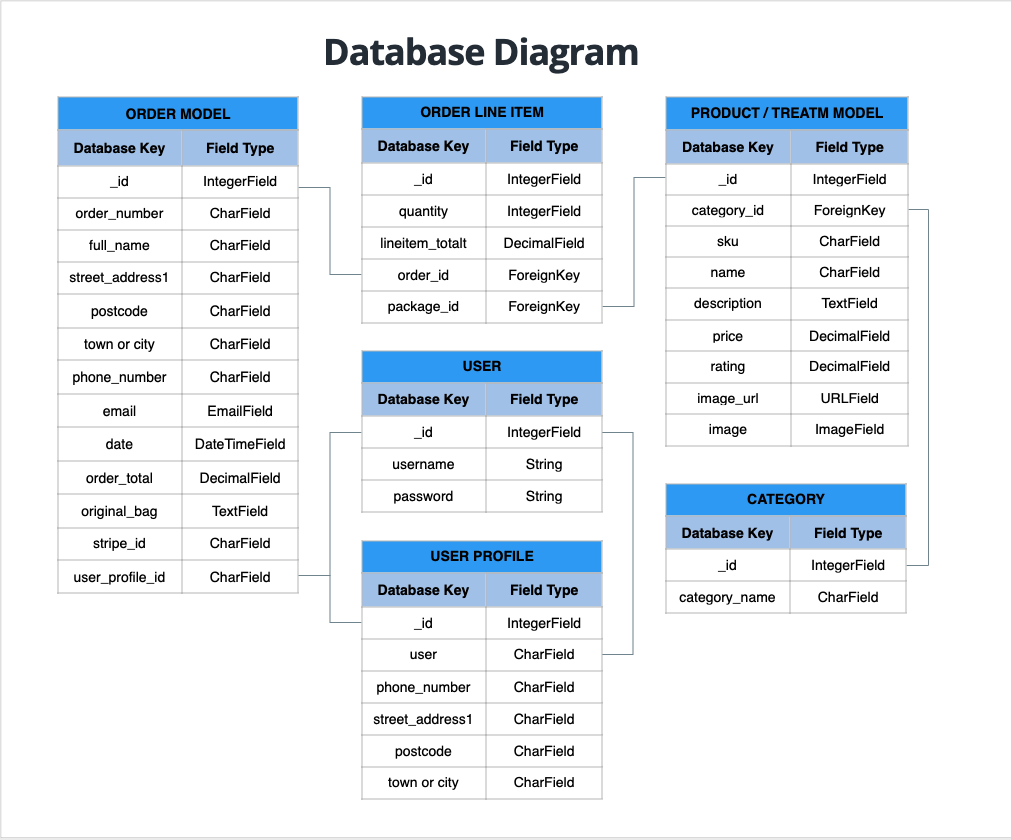
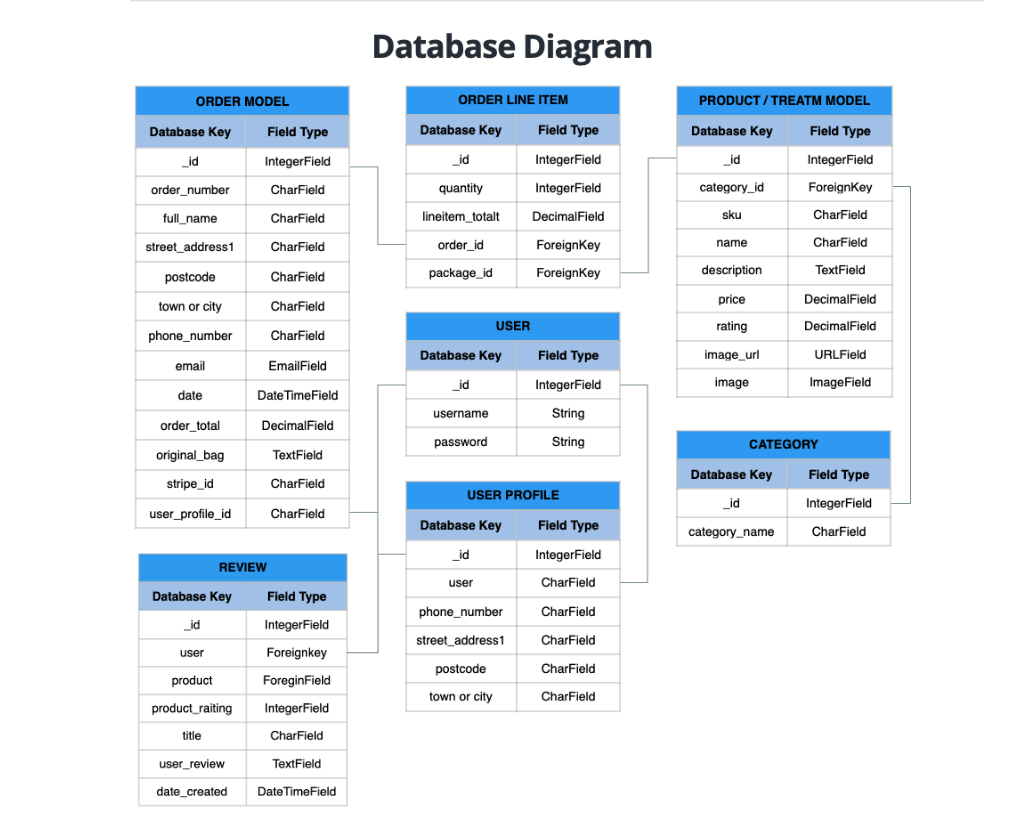
doc(core): Updated database schema with review model and cleand up readme

Changed region(s): [[0.0307, 0.031, 0.9199, 0.9595], [0.0, 0.9905, 1.0, 1.0]]

diff --git a/README.md b/README.md
@@ -40,6 +40,7 @@ View the live website: [Happy Feets](https://happy-feetss.herokuapp.com/)
 # UX
 
 ## Strategy
+---
 
 The purpose of this project is to build a simple website for a podiatrist where customers can buy treatments or products of choice. This website can be easily changed for different type of businesses. 
 
@@ -103,8 +104,8 @@ I have also done some research on highest searched words in podiatrist and feet 
 
 <br>
 
----
 ## Scope
+---
 
 Based on the requirements of achieving user's and owner's goals and stories, below is the list of required pages with the features and functions:
 
@@ -143,8 +144,8 @@ Based on the requirements of achieving user's and owner's goals and stories, bel
         - As the business owner, I would like to be able to provide easy shopping experience for my customers.
 <br>
 
----
 ## Structures of the website
+---
 
 Website contains:
 - Navigation bar is fixed and collapse to burger icon on mobile devices with essential links to navigate on the website. 
@@ -153,10 +154,11 @@ Website contains:
 - The shop page will contain information of what kind of products can be bought.
 - The about page will contain information about the siteowner.
 - The footer will contains social media links.
+
 <br>
 
----
 ## Skeleton
+---
 
 ### Wireframes
 
@@ -173,8 +175,28 @@ The database diagram shows a list of items in each object and relationships betw
 
 - [Database Schema](readme_data/database/database-schema.png)
 
+**Data Models**
+
+The following models have been used to populate the database and for the site to function as it should:
+
+- Order - a users successful purchase leads to an instance of the Order model being created, storing delivery and user data
+
+- OrderLineItem - a model holding the product information for a single product, binding the product model together with the order
+
+- Product/Treatment - the model for the product itself and its details
+
+- Category - the category in which the product is placed
+
+- User - the built in Django User model, facilitates the users basic information
+
+- UserProfile - the model storing the users product and order information
+
+- Review - a model for users to give the product a rating and a review
+
+<br>
 
 ## Surface
+---
 
 ### Frontend Design
 The [Bootstrap](https://getbootstrap.com/) framework was used to implement the frontend of the website to give a responsive design that provides a good UX across all devices and screen sizes.
@@ -193,6 +215,7 @@ Images used in this site are taken from: [Freepik](https://freepik.com/)
 # Features:
 
 ## Existing Features:
+---
 
 ### Header
 
@@ -288,12 +311,14 @@ Once a user is registered they will have access to their profile page. This allo
 
 Site administrators can use this page to add new products to the website and also edit existing products in the database.
 
+<br>
 
 ## Features Left to Implement:
+---
 
 - Add a booking system so that customers can book treatments throuh a time table.
 - Add blog/news site. 
-- More styling and better pictures.
+- More styling, text and better pictures.
 
 ----
 # Technologies Used:
@@ -330,12 +355,15 @@ Site administrators can use this page to add new products to the website and als
 - [Am I Responsive](http://ami.responsivedesign.is/): was used to generate the website screen shots displayed at the top of this page.
 - [Favicon](https://favicon.io/): was used to generate the favicon for the website.
 
----  
+<br>
+
 ## Testing:
+---
 
 See [testing.md](testing.md) for the testing documentation.
 
----
+<br>
+
 # Deployment
 
 This project was developed using [GitPod](https://gitpod.io/) and the latest version of the code base can be found in the master branch of this
